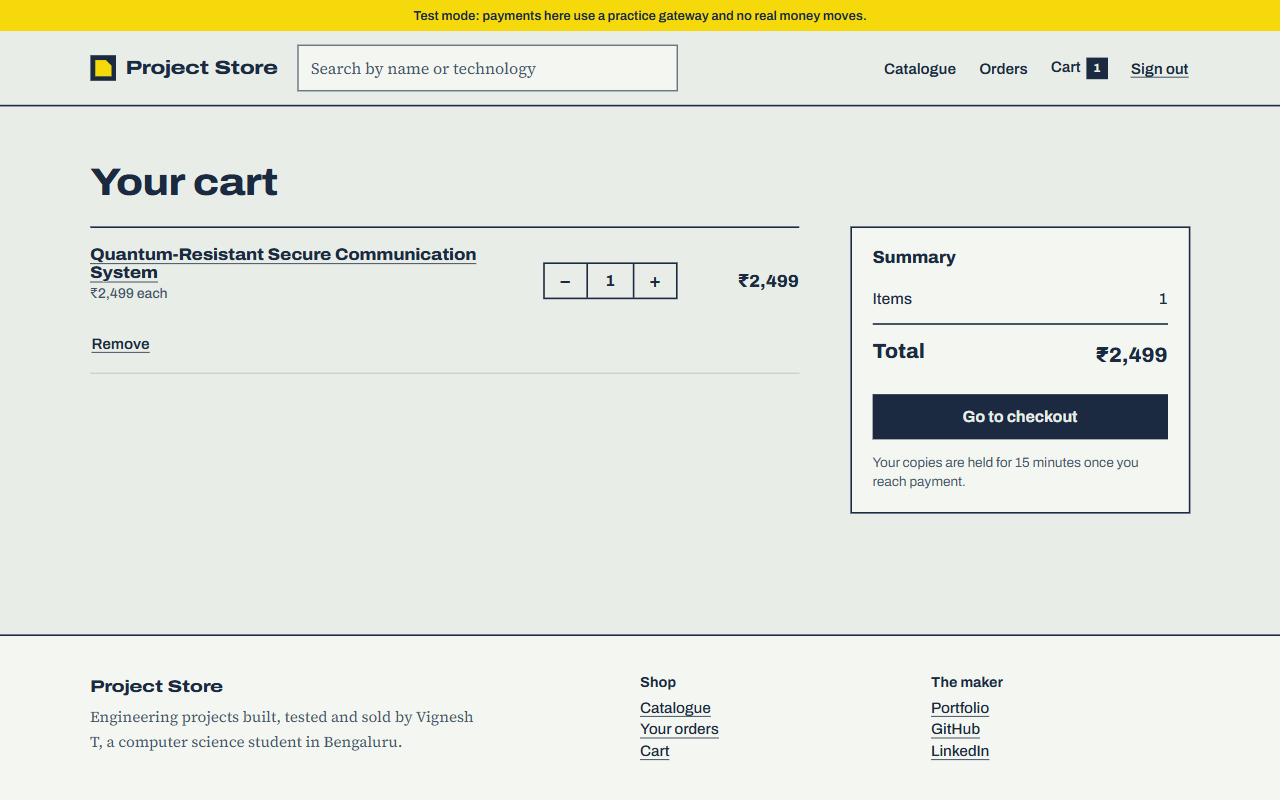
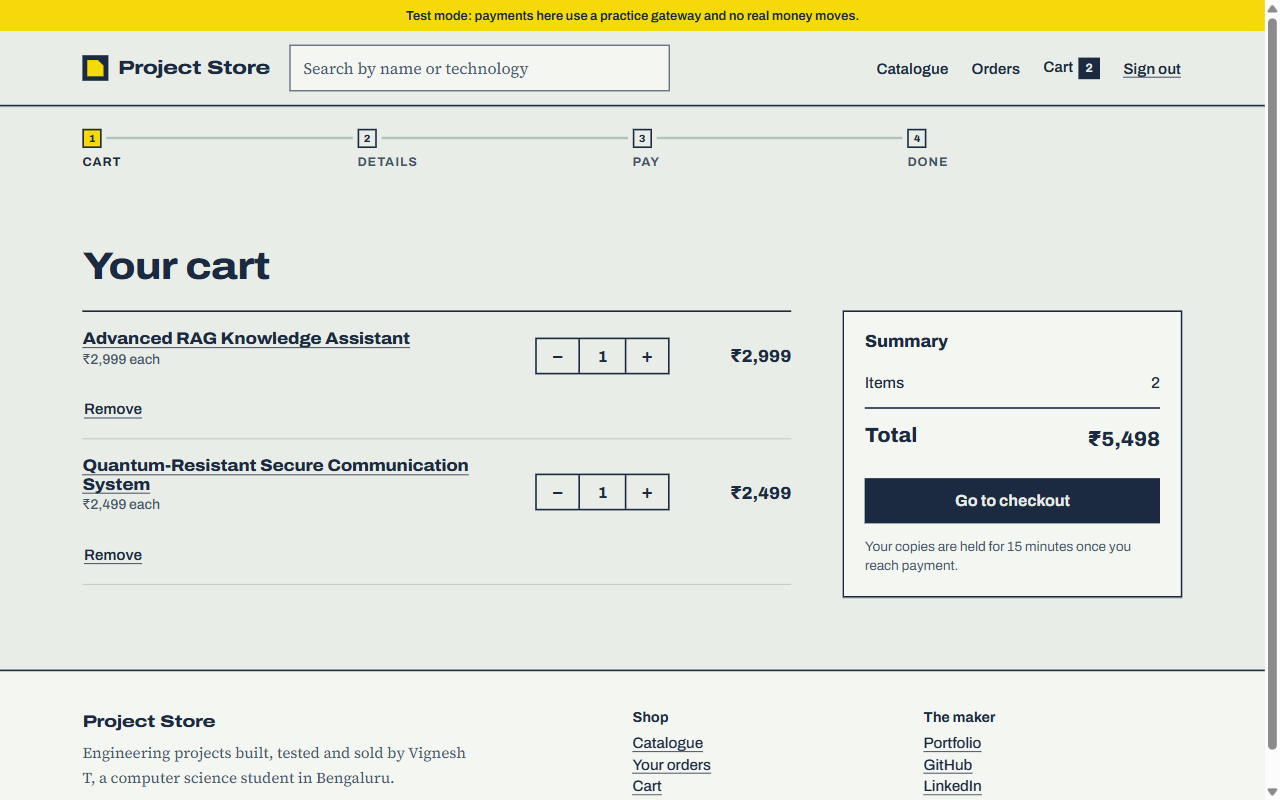
Release prep: retaken screenshots, README motion and limitations, architecture tuning notes, changelog 1.1.0 [00:25 IST]

diff --git a/README.md b/README.md
@@ -6,17 +6,25 @@ Built with Flask, SQLAlchemy, MySQL, Jinja and hand-written CSS. The design note
 
 ![Home page at 1280 px](docs/screenshots/home.png)
 
-| Catalogue | Product |
+| Home: the story | Home: the pinned showcase |
 |---|---|
+| ![Home story](docs/screenshots/home-story.png) | ![Pinned showcase, scene two of three](docs/screenshots/home-showcase.png) |
+| **Catalogue** | **Product** |
 | ![Catalogue](docs/screenshots/catalogue.png) | ![Product page](docs/screenshots/product.png) |
-| **Cart** | **Paid order** |
-| ![Cart](docs/screenshots/cart.png) | ![Paid order](docs/screenshots/order.png) |
+| **Cart** | **Checkout** |
+| ![Cart](docs/screenshots/cart.png) | ![Checkout](docs/screenshots/checkout.png) |
+| **Pay (practice gateway)** | **Paid order** |
+| ![Pay page](docs/screenshots/pay.png) | ![Paid order](docs/screenshots/order.png) |
+| **Your orders** | **Admin overview** |
+| ![Orders](docs/screenshots/orders.png) | ![Admin dashboard](docs/screenshots/admin-dashboard.png) |
 
-![Admin dashboard](docs/screenshots/admin-dashboard.png)
+On a 390 px phone: home, catalogue, product, cart, pay and paid order.
 
-The home page at 390 px: ![Home page at 390 px](docs/screenshots/home-390.png)
+| ![Home at 390 px](docs/screenshots/home-390.png) | ![Catalogue at 390 px](docs/screenshots/catalogue-390.png) | ![Product at 390 px](docs/screenshots/product-390.png) |
+|---|---|---|
+| ![Cart at 390 px](docs/screenshots/cart-390.png) | ![Pay at 390 px](docs/screenshots/pay-390.png) | ![Paid order at 390 px](docs/screenshots/order-390.png) |
 
-The screenshots were taken from a fresh database loaded with the demo seed and one practice purchase, so they show no real customer data. The yellow banner is the practice-gateway notice (see [Payments](#payments)).
+The screenshots were taken from a fresh database loaded with the demo seed and one practice purchase, so they show no real customer data. Still frames cannot show the motion; run the store locally to see it. The yellow banner is the practice-gateway notice (see [Payments](#payments)).
 
 **This is an open-source demo store.** The source is public (MIT), so there is no paywall. The download links in the seeded catalogue are blank, so a paid order's page says "Link coming soon. Contact the store." If you run a store like this for your own work, set private links as described in [How to set up the private delivery links](#how-to-set-up-the-private-delivery-links).
 
@@ -32,6 +40,15 @@ Every number below comes from a command you can run.
 | CI runs four jobs on every push and pull request: `test` (SQLite, then MySQL for the concurrency and migration tests), `security` (`pip-audit`, `bandit` at medium severity and above, lock files match the pins), `build` (Docker image plus a smoke test) and `deploy` (main only: pushes the image to GitHub Container Registry) | [`.github/workflows/ci.yml`](.github/workflows/ci.yml) |
 | The schema is defined only by Alembic migrations, and a test fails if models and migrations disagree | `tests/test_migrations.py` |
 
+## Motion and design
+
+The look is graph-paper green-grey with one ink blue and one highlighter yellow, Archivo and Source Serif 4 self-hosted, and no gradients, shadows or emoji icons. Motion is progressive: the server renders every page complete, and the scripts add movement on top.
+
+* **One scroll system.** `fx-scroll.js` runs one observer and one animation-frame loop. Templates ask for an effect with `data-fx` words written through two macros (rise, cascade, count, pin, parallax, lines, words, from-left, from-right, zoom, flip, clip, draw, hscroll, marquee, tilt, magnetic). The home page has a pinned showcase (covers slide in from both sides over three scenes), a sideways shelf and a drawn timeline; the other pages use the quieter words. `docs/MOTION_INVENTORY.md` lists every effect, and a test fails if one disappears. Details are in [docs/ARCHITECTURE.md](docs/ARCHITECTURE.md#scroll-system).
+* **Only cheap properties move.** Transform and opacity, plus clip-path, stroke-dashoffset and a 6 px blur on the home headline once. Hidden states exist only after the script has started, so no script, a blocked observer or `prefers-reduced-motion` all show the finished page.
+* **Adaptive quality (`fx-lite`).** On a machine with four or fewer cores, four GB of memory or less, or one that renders under 45 frames a second just after load, the pinned stages become scroll-linked and the shelf becomes a swipe row; every other effect stays. `?fx=lite` and `?fx=full` force it. At normal speed pages hold about 7 ms a frame on the test machine; under a 4x CPU throttle the home page does not (about 28 ms), and `fx-lite` does not fix that. See "Measured limit" in the architecture notes.
+* **Tuning.** `app/static/css/fx-tuning.css` holds the speed, distance, stagger, easing, tilt, parallax, loader and payment-mark knobs; `app/fx.json` switches single effects off. [docs/MOTION_TUNING.md](docs/MOTION_TUNING.md) lists both.
+
 ## Known limitations
 
 Read these before you rely on the store.
@@ -39,6 +56,8 @@ Read these before you rely on the store.
 * **No email, and no password reset.** The app sends no mail at all. A user who forgets a password cannot recover the account by themselves. The only built-in tool that sets a password is `flask create-admin`, and it also makes that account an admin, so it is not a customer reset.
 * **Registering an email that already has an account says so.** That reveals the address is registered. It is an accepted risk, because the proper fix (telling the address's owner by email instead of answering in the page) needs email.
 * **The Razorpay path has been tested with mocks only.** The client code, signature checks, amount/currency/status checks and the webhook are tested against a mocked Razorpay API. This code has never run against a live Razorpay account, test or live mode. In particular, `style-src 'self'` might block styling that Razorpay's checkout script injects (see "Razorpay and style-src" in the architecture notes).
+* **Add to cart needs JavaScript.** The button calls the REST API from the page script. With scripts blocked it reloads the product page and nothing is added; every page still renders in full without scripts, and checkout and payment are plain form posts.
+* **Motion is progressive and reduced-motion aware, not guaranteed everywhere.** It was checked in Chromium only (no Firefox or Safari run), at normal speed and under a 4x CPU throttle where the home page is not smooth. With `prefers-reduced-motion` nothing animates.
 * **Use the practice gateway for demos.** With `ALLOW_PRACTICE_GATEWAY=true`, anyone who is signed in can mark their own order paid for nothing. It is for demos and local development, and must stay off for a store that sells for real.
 * **Download links are blank in the demo seed.** Paid orders show "Link coming soon. Contact the store." until you set a link per product in the admin screen.
 * **`COOKIE_SECURE` and HSTS are off unless you set them.** `COOKIE_SECURE=true` marks the session cookies Secure and turns on `Strict-Transport-Security`. Set it when the site is served over HTTPS. Over plain HTTP, leave it off, or sign-in stops working.

diff --git a/docs/ARCHITECTURE.md b/docs/ARCHITECTURE.md
@@ -97,7 +97,7 @@ One vocabulary, one script, one observer, one animation-frame loop. Pages do not
 | `rise` | One block comes in once, as it nears the screen: it fades up by `--fx-dist` (14 px). | `<div class="section-head" {{ fx('rise') }}>` |
 | `cascade` | On a parent. Each direct child rises once, as it nears the screen. Children that arrive together are staggered by `--fx-stagger` (60 ms) in document order, the first 8 of a batch; later ones share the last step. | `<div class="grid" {{ fx('cascade') }}>{% for p in items %}{{ tile(p) }}{% endfor %}</div>` |
 | `count` | A figure counts up once, in about 0.9 s. The macro writes the number three times (target, a sizing copy and the live text), so the box is as wide as the final figure and counting moves nothing. | `{{ fx_count(n_projects) }}` |
-| `pin` | A tall section holds a scene on screen. The script writes `--p` (0 to 1) on the section while it is near the screen; children marked `.fx-move` turn that into sideways slides and growth. The section's height comes from `--pin-h`; add `.pin-lg` to pin on screens 900 px wide and up only, never on phones, or `.pin-soft` to never pin (the progress then follows how far the section has come up the screen). The home showcase is `.pin-soft`: a sticky stage costs frame time in software compositing, and measured at 4x CPU throttle the pinned version missed 16 ms p95 while the unpinned one does not. | `<section class="scene pin-lg" {{ fx('pin') }}><div class="fx-stage">...<figure class="fx-move">` |
+| `pin` | A tall section holds a scene on screen. The script writes `--p` (0 to 1) on the section while it is near the screen; children marked `.fx-move` turn that into sideways slides and growth. The section's height comes from `--pin-h`; add `.pin-lg` to pin on screens 900 px wide and up only, never on phones, or `.pin-soft` to never pin (the progress then follows how far the section has come up the screen). The home showcase is `.pin-lg`: pinned on large screens with three scenes (the covers slide in from both sides, the headline changes, a counter reads 01 / 02 / 03), and scroll-linked but not pinned on phones and under `fx-lite`. | `<section class="scene pin-lg" {{ fx('pin') }}><div class="fx-stage">...<figure class="fx-move">` |
 | `parallax` | A few pixels of drift against the scroll. The script writes `--py` (-1 to 1) while the element is near the screen. Transform only. | `<div class="sc-art" {{ fx('parallax') }}>{{ cover(p) }}</div>` |
 
 **Variants.** More words in the same vocabulary, each a named effect that can be switched off by listing its word in `OFF` at the top of `fx-scroll.js` (the script then treats it as already in place and adds `fx-off-<word>` to `<html>` for CSS-only effects):
@@ -116,6 +116,8 @@ One vocabulary, one script, one observer, one animation-frame loop. Pages do not
 Other pieces that are not words: the section rail (`<nav class="rail">`, desktop only, fills as the home page's sections go by), three parallax layers of line-art in the home hero (`.px-1`, `.px-2`, `.px-3` set their speed with `--pm`), and cross-document view transitions (`@view-transition { navigation: auto }` with a named cover that travels from the card you point at to the product page; ignored by browsers without support).
 
 **Adaptive quality.** `html.fx-lite` turns off only the heaviest items: pinned sticky stages become scroll-linked (and the sideways shelf becomes a swipe row), and big parallax stops. The script sets it when `navigator.hardwareConcurrency <= 4`, `navigator.deviceMemory <= 4`, or the first 500 ms of frames average under 45 fps. `?fx=lite` or `?fx=full` in the address forces it either way. Everyone else gets every effect; the budget is measured at normal speed (p95 at most 16.7 ms), and the 4x CPU throttle is only a stress diagnostic.
+
+**Measured limit.** At normal speed every page class holds about 7 ms per frame on desktop and phone (p95 at most 21 ms, worst 42 ms, on the home page). Under a 4x CPU throttle the home page averages about 28 ms per frame: style recalculation dominates (about 16 ms of it per frame), it is spread over the page rather than one effect, and `fx-lite` does not reduce it. That is a known limitation, not a fixed one.
 
 **Defaults are visible.** The page as the server renders it has no hidden state, no taller sections and no sticky stages. Every hiding rule in `motion3.css` starts with `html.fx-on`, a class the script adds only after it has checked that reduced motion is off and `IntersectionObserver` exists. Anything already on screen at that moment gets `.is-in` first, so nothing flashes. With no script, a blocked script, reduced motion or no observer, the page is simply finished. A focused element is never left hidden: `focusin` brings in its `data-fx` ancestors, and shows a pinned scene whole.
 
@@ -153,6 +155,12 @@ Other pieces that are not words: the section rail (`<nav class="rail">`, desktop
 **Inventory.** `docs/MOTION_INVENTORY.md` lists every effect with a literal hook; `tests/test_fx_inventory.py` fails if a listed hook disappears. Motion work is additive.
 
 **Rules a change here must keep** (enforced in `tests/test_fx_*.py`): only `transform` and `opacity` change with scroll (plus `clip-path`, and `stroke-dashoffset` on drawn lines, which are paint-only; the focus ring animates `outline-offset`); no hiding without `html.fx-on`; no `:hover` dependence outside the fine-pointer query; nothing but one-shot words in admin and nothing at all on error pages; no control is ever hidden at first paint; at most one observer and one queued frame in `fx-scroll.js`; `fx-ui.js` has neither; no routes, services, models or headers involved.
+
+## Tuning the motion
+
+Every number someone is likely to want to change is a CSS custom property in `static/css/fx-tuning.css`, loaded before `motion3.css`: overall speed, travel distance, stagger, easing, tilt and magnet strength, parallax strength, how far the showcase covers start from the side, loader length, the Add to cart and payment-mark lengths and the marquee speed. Change a value and reload; nothing else needs editing. `fx-cart.js`, `fx-pay.js` and `motion.js` read the same properties, so the scripted effects follow.
+
+Any single effect can be switched off by listing its name in `app/fx.json` (`{"off": ["tilt"]}`). The context processor writes the list to `<html data-fx-off="...">` before first paint, so CSS-only effects switch off with no script, and `fx-scroll.js` and `fx-ui.js` skip the effects they own. `docs/MOTION_TUNING.md` lists every knob and every switch name with a good range; `docs/MOTION_INVENTORY.md` lists every effect with the switch that turns it off, and a test fails if a listed effect disappears from its file.
 
 ## Security notes
 

diff --git a/CHANGELOG.md b/CHANGELOG.md
@@ -2,7 +2,7 @@
 
 Dates are commit dates. The newest release is first.
 
-## Unreleased (branch `motion-3`)
+## 1.1.0 (2026-11-14)
 
 Motion, additive only (`docs/MOTION_INVENTORY.md` lists every effect; a test fails if one disappears).
 
@@ -13,6 +13,14 @@ Motion, additive only (`docs/MOTION_INVENTORY.md` lists every effect; a test fai
 * **Everywhere**: a scroll-progress hairline, a condensed header, a footer rise, an animated focus ring, press feedback, underline wipes, hover lift.
 * **Adaptive quality**: `html.fx-lite` (few cores, little memory, or under 45 fps for half a second; `?fx=lite` and `?fx=full` force it) turns the pinned stages scroll-linked, the shelf into a swipe row and stops big parallax. Every other effect stays.
 * The home page's test count and coverage now come from `app/facts.json`; tests keep it, the README and the collected test count equal, and `scripts/update_facts.py` re-measures.
+* **Pinned showcase restored with three scenes** ("Scroll to fill the shelf", "Four fields, one platform", "Built to be checked"): four covers slide in from both sides, the headline crossfades, a counter reads 01 / 02 / 03, a Scroll cue fades. Pinned from 900 px up, scroll-linked and unpinned on phones and under `fx-lite`.
+* **Home headline** arrives out of a 6 px blur (that one element, once). **Product page**: title row, then a sticky cover and buy box beside the details (CSS sticky, falls back to normal flow on short or narrow windows), cover clip-reveal, sections cascading.
+* **Transactional**: the stepper appears on cart, checkout, pay and the order page (also for a pending order); the payment mark shows on the paid order page and on a declined payment, with a ring pulse behind the tick; empty cart, no orders and no search results have line-art with a small idle loop; toasts moved bottom-right so they never cover the stepper.
+* **Tuning layer**: `app/static/css/fx-tuning.css` (speed, distance, stagger, easing, tilt, magnet, parallax, cover distance, loader, cart and pay lengths, marquee), `app/fx.json` to switch any single effect off, `docs/MOTION_TUNING.md`, and `docs/MOTION_INVENTORY.md` with a test that fails if an effect is lost.
+* **Accessibility**: the test-mode notice is a labelled region, the catalogue lists projects under a heading, and the pay page has a level-one heading (all three were axe findings that also exist in 1.0.0). Axe finds nothing new with the motion on, and nothing at all under reduced motion beyond those.
+* **Copy**: admin product visibility reads Visible / Hidden; the home "Pay at checkout" step no longer names Razorpay.
+* **Measured**: 957 tests pass (3 skip without MySQL), coverage 97%. At normal speed every page holds about 7 ms a frame; under a 4x CPU throttle the home page does not (known limitation).
+* No route, service, model, migration or security header changed; the migration head is still 0004. The only Python change in the app is `app/context.py`, which now also supplies the measured facts and the switched-off list to templates.
 
 ## 1.0.0 (2026-11-13)
 
